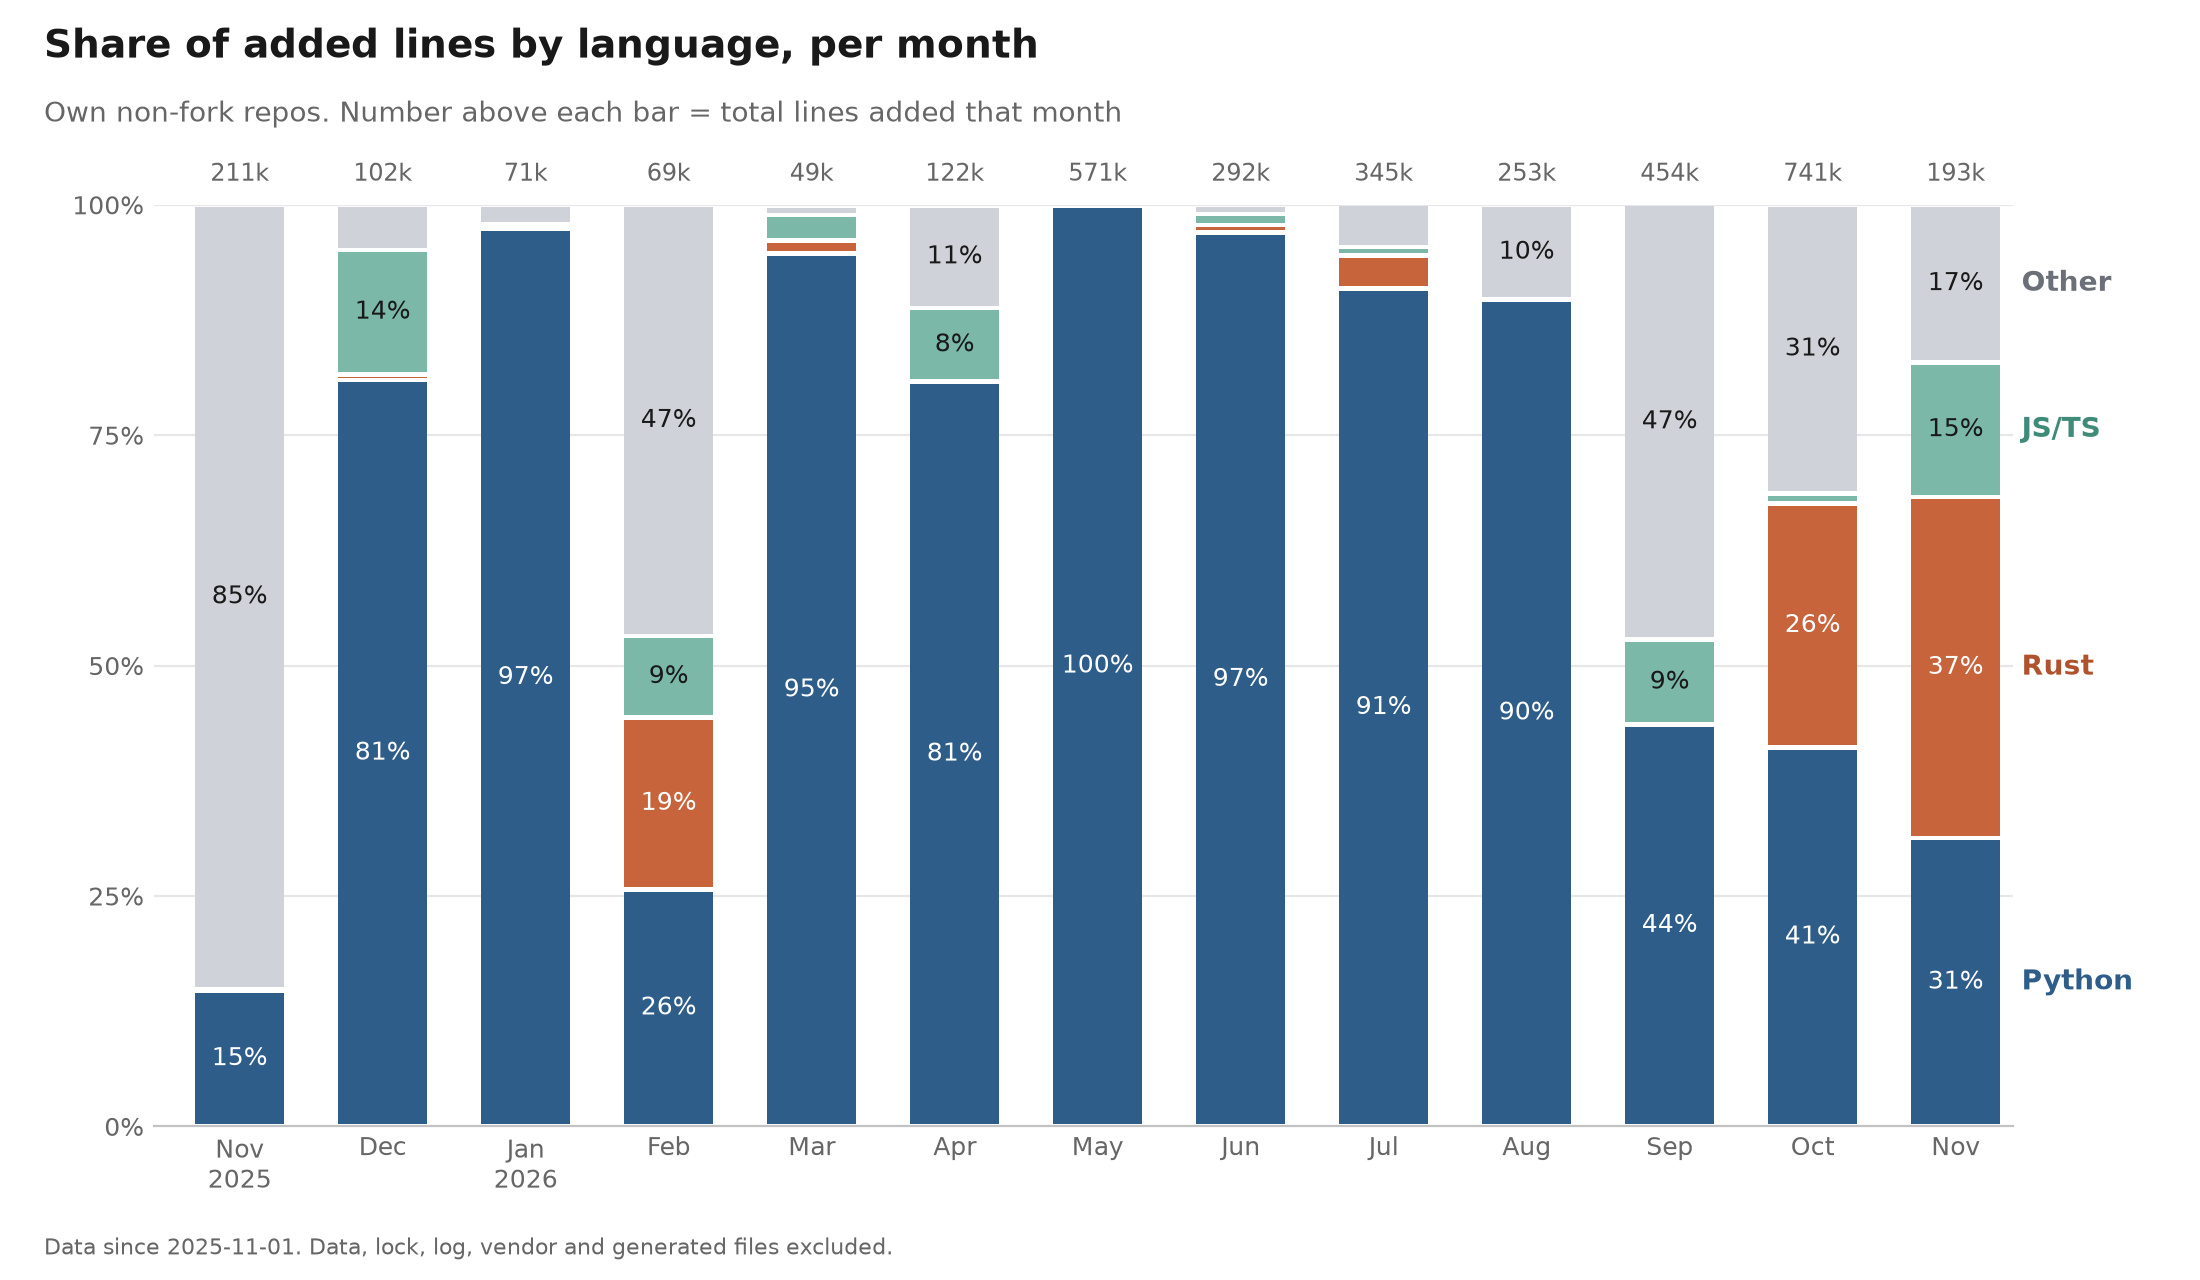
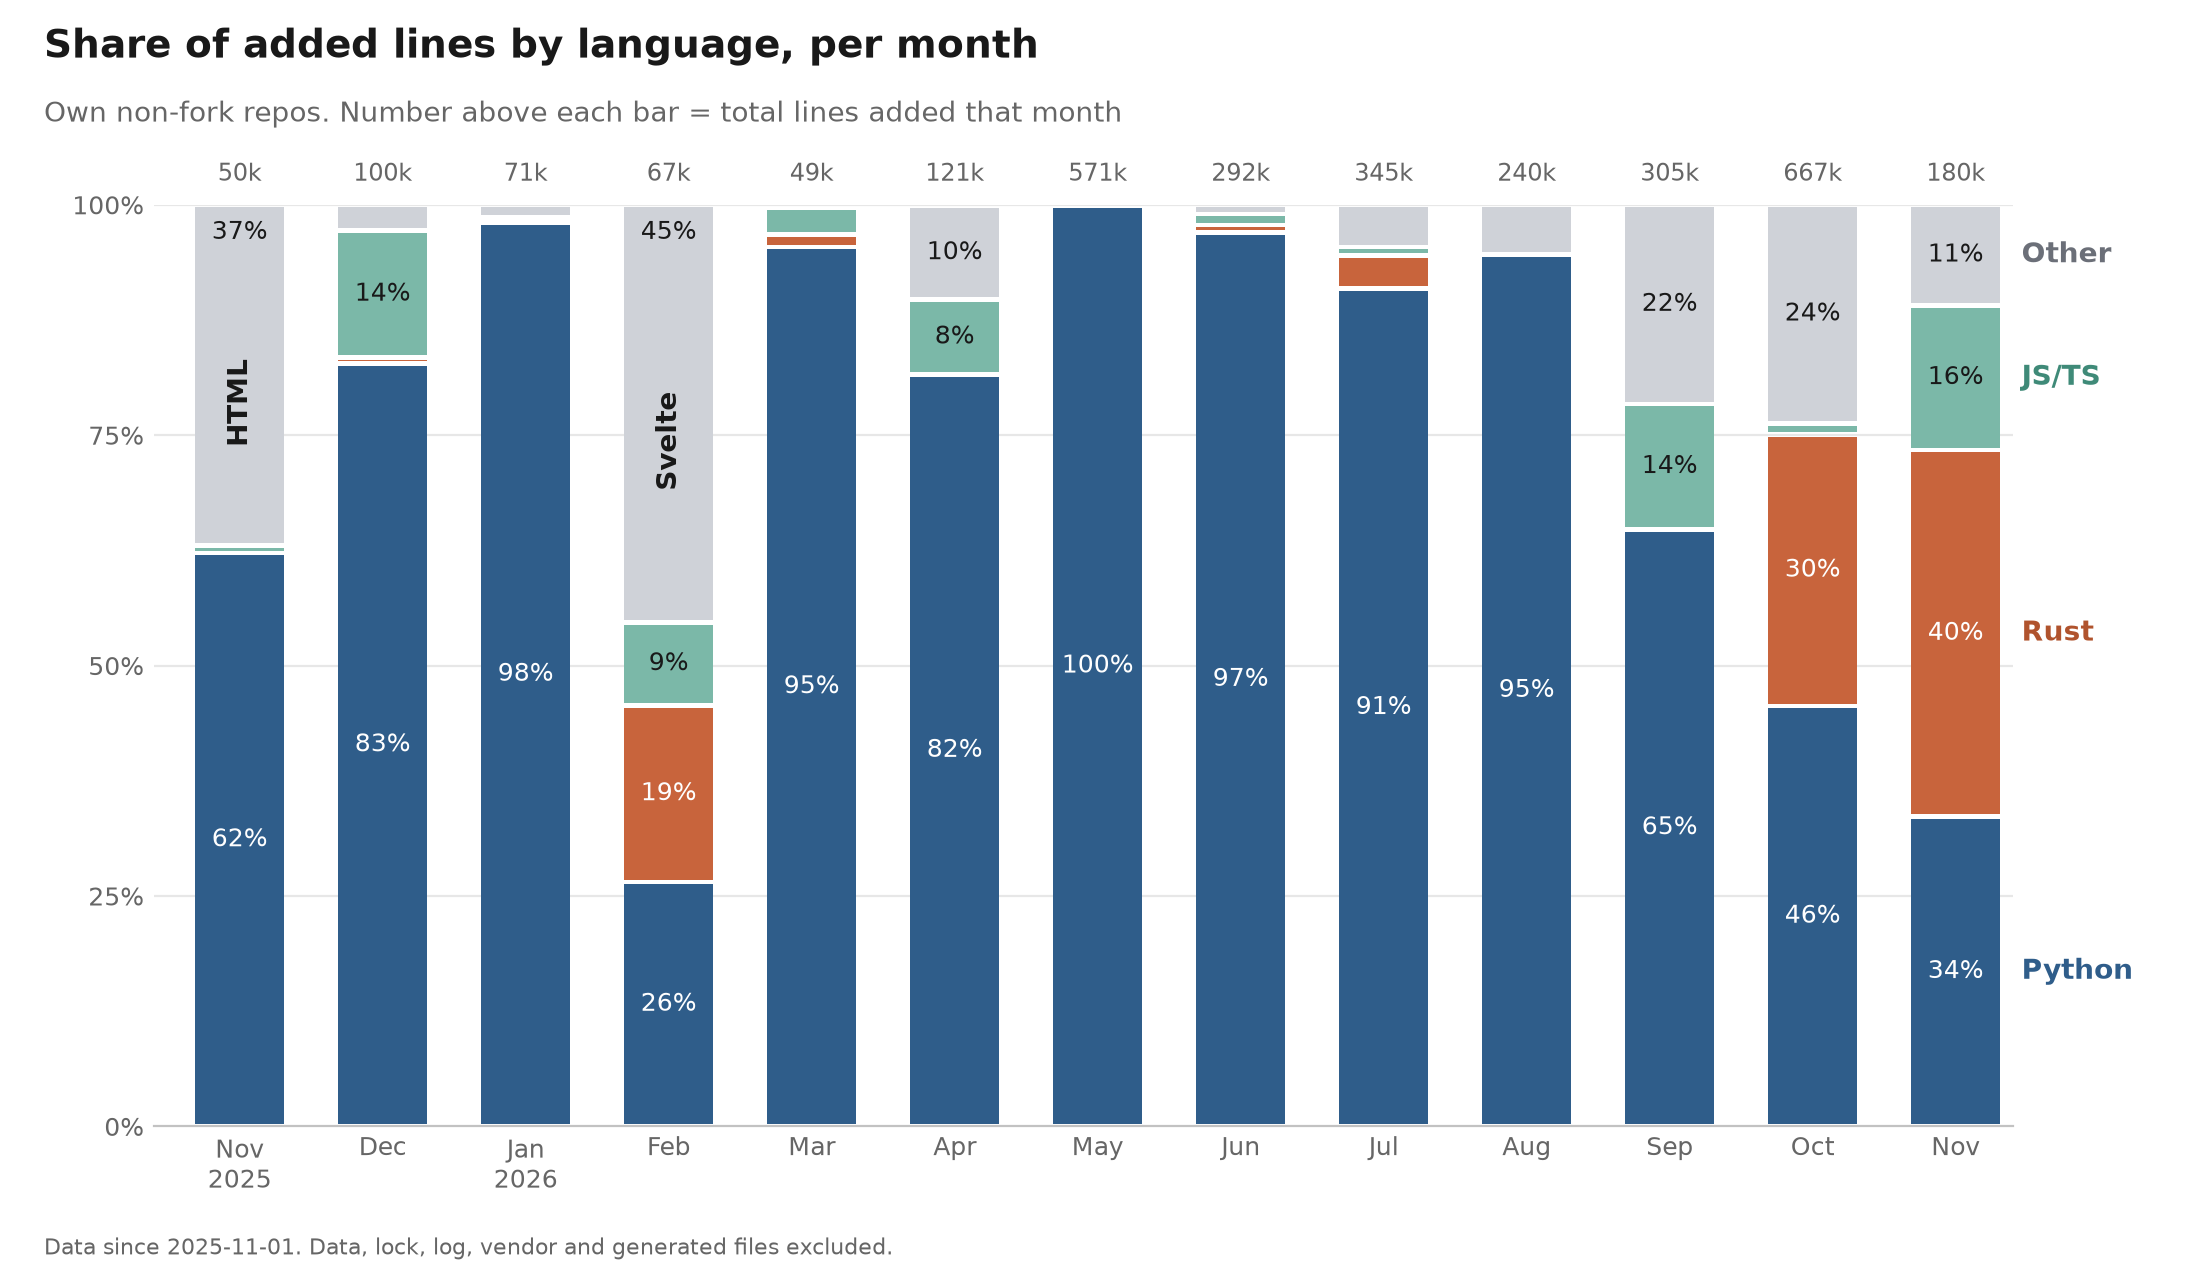
Count only known code extensions and name a dominant language inside large Other segments
Unknown extensions (.stdout, .csv-done, ...) and generated report.html files
were counted as code and inflated Other. Other segments above 30% that are
at least 80% one language now carry that language's name, written vertically.

diff --git a/lang_stats.py b/lang_stats.py
@@ -24,6 +24,7 @@ import sys
 
 CACHE = os.path.expanduser("~/.cache/lang-stats")
 CLONES = os.path.join(CACHE, "clones")
+SINGLE_LANG_SHARE = 80  # % of "Other" a language needs to be named inside the bar
 DEFAULT_OUT = os.path.join(os.path.dirname(os.path.abspath(__file__)), "assets")
 GH_USER = None  # None = author from `gh api user`
 
@@ -41,7 +42,7 @@ DATA_EXT = {".md", ".json", ".yml", ".yaml", ".toml", ".txt", ".csv", ".lock", "
 SKIP_NAMES = {"package-lock.json", "Cargo.lock", "yarn.lock", "pnpm-lock.yaml", "poetry.lock", "uv.lock"}
 # Vendored, generated, fixture and experiment-output paths.
 BAD = re.compile(r"(^|/)(vendor|node_modules|dist|build|fixtures?|campaigns?|results?|data|outputs?|generated|"
-                 r"third_party|\.venv|venv)(/|$)|\.min\.js$|-results?/")
+                 r"third_party|\.venv|venv)(/|$)|\.min\.js$|-results?/|(^|/)report\.html$")
 FAMILY = {"Python": "Python", "Rust": "Rust", "JavaScript": "JS/TS", "TypeScript": "JS/TS"}
 FAMILY_ORDER = ["Python", "Rust", "JS/TS", "Other"]
 THEMES = {
@@ -156,30 +157,40 @@ def classify(path):
     ext = os.path.splitext(base)[1].lower()
     if ext in DATA_EXT or ext == "":
         return None
-    lang = EXT.get(ext, "Other-code")
+    lang = EXT.get(ext)
+    if lang is None:  # unknown extension: experiment output and data (.stdout, .csv-done, ...), not code
+        return None
     return FAMILY.get(lang, "Other")
 
 
 def aggregate(all_rows):
+    """Return (monthly family counters, per-month counters of the languages inside "Other")."""
     monthly = collections.defaultdict(collections.Counter)
+    other = collections.defaultdict(collections.Counter)
     for repo, rows in all_rows:
         for _sha, month, path, added in rows:
             fam = classify(norm_path(path))
             if fam is None:
                 continue
             monthly[month][fam] += added
-    return monthly
+            if fam == "Other":
+                other[month][EXT[os.path.splitext(norm_path(path))[1].lower()]] += added
+    return monthly, other
 
 
-def write_csv(monthly, path):
+def write_csv(monthly, other, path):
     with open(path, "w", newline="") as f:
         w = csv.writer(f)
-        w.writerow(["month"] + FAMILY_ORDER + ["total_lines"])
+        w.writerow(["month"] + FAMILY_ORDER + ["total_lines", "other_top", "other_top_share"])
         for m in sorted(monthly):
             c = monthly[m]
             total = sum(c.values())
             shares = [round(100 * c[k] / total, 1) if total else 0.0 for k in FAMILY_ORDER]
-            w.writerow([m] + shares + [total])
+            top, top_share = "", 0.0
+            if other[m]:
+                top, top_lines = other[m].most_common(1)[0]
+                top_share = round(100 * top_lines / sum(other[m].values()), 1)
+            w.writerow([m] + shares + [total, top, top_share])
     return path
 
 
@@ -241,9 +252,16 @@ def draw_chart(csv_path, png_path, since, theme="light"):
         ax.bar(x, [max(v - gap, 0) for v in vals], bottom=[b + gap / 2 for b in bottom],
                color=T["colors"][key], width=0.62, linewidth=0, zorder=3)
         for i, v in enumerate(vals):
+            name = rows[i]["other_top"] if key == "Other" else ""
+            named = bool(name) and v > 30 and float(rows[i]["other_top_share"]) >= SINGLE_LANG_SHARE
             if v >= 6:
-                ax.text(i, bottom[i] + v / 2, f"{v:.0f}%", ha="center", va="center",
+                # a named segment keeps its % at the top and the language name runs vertically below it
+                y = bottom[i] + v - 3 if named else bottom[i] + v / 2
+                ax.text(i, y, f"{v:.0f}%", ha="center", va="center",
                         fontsize=9, color=T["label"][key], zorder=4)
+            if named:
+                ax.text(i, bottom[i] + (v - 6) / 2, name, rotation=90, ha="center", va="center",
+                        fontsize=10, fontweight="bold", color=T["label"][key], zorder=4)
         last_centers[key] = bottom[-1] + vals[-1] / 2
         bottom = [b + v for b, v in zip(bottom, vals)]
 
@@ -320,8 +338,8 @@ def main():
             continue
         all_rows.append((full, rows))
 
-    monthly = aggregate(all_rows)
-    csv_path = write_csv(monthly, os.path.join(CACHE, "languages_monthly.csv"))
+    monthly, other = aggregate(all_rows)
+    csv_path = write_csv(monthly, other, os.path.join(CACHE, "languages_monthly.csv"))
     print(f"wrote {csv_path}")
     for theme, name in (("light", "languages-monthly.png"), ("dark", "languages-monthly-dark.png")):
         png_path = draw_chart(csv_path, os.path.join(args.out, name), since, theme)
